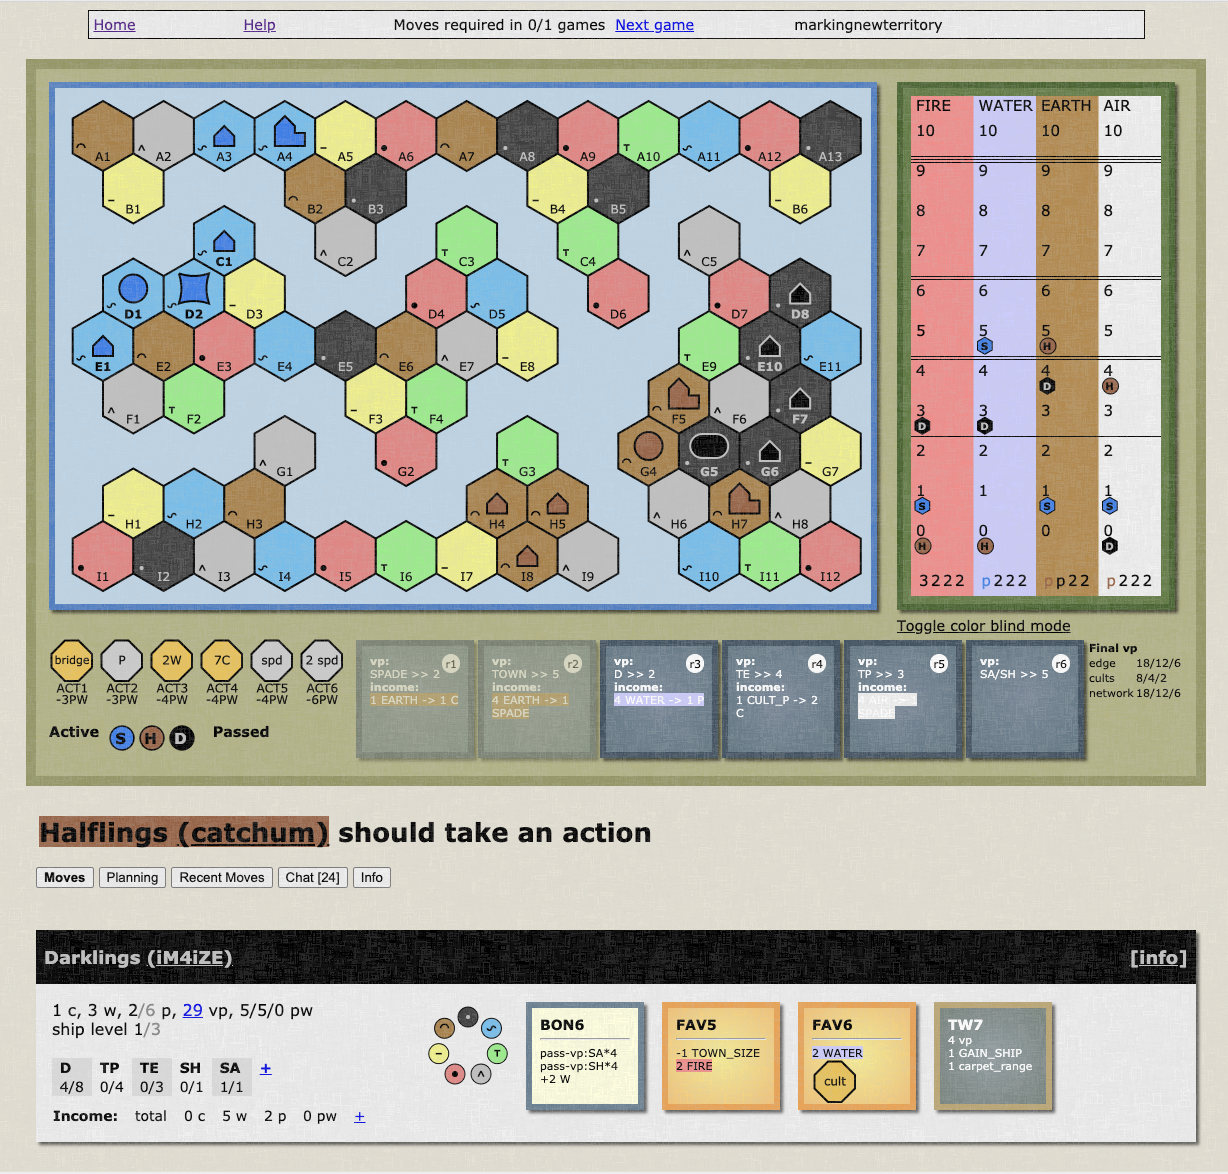
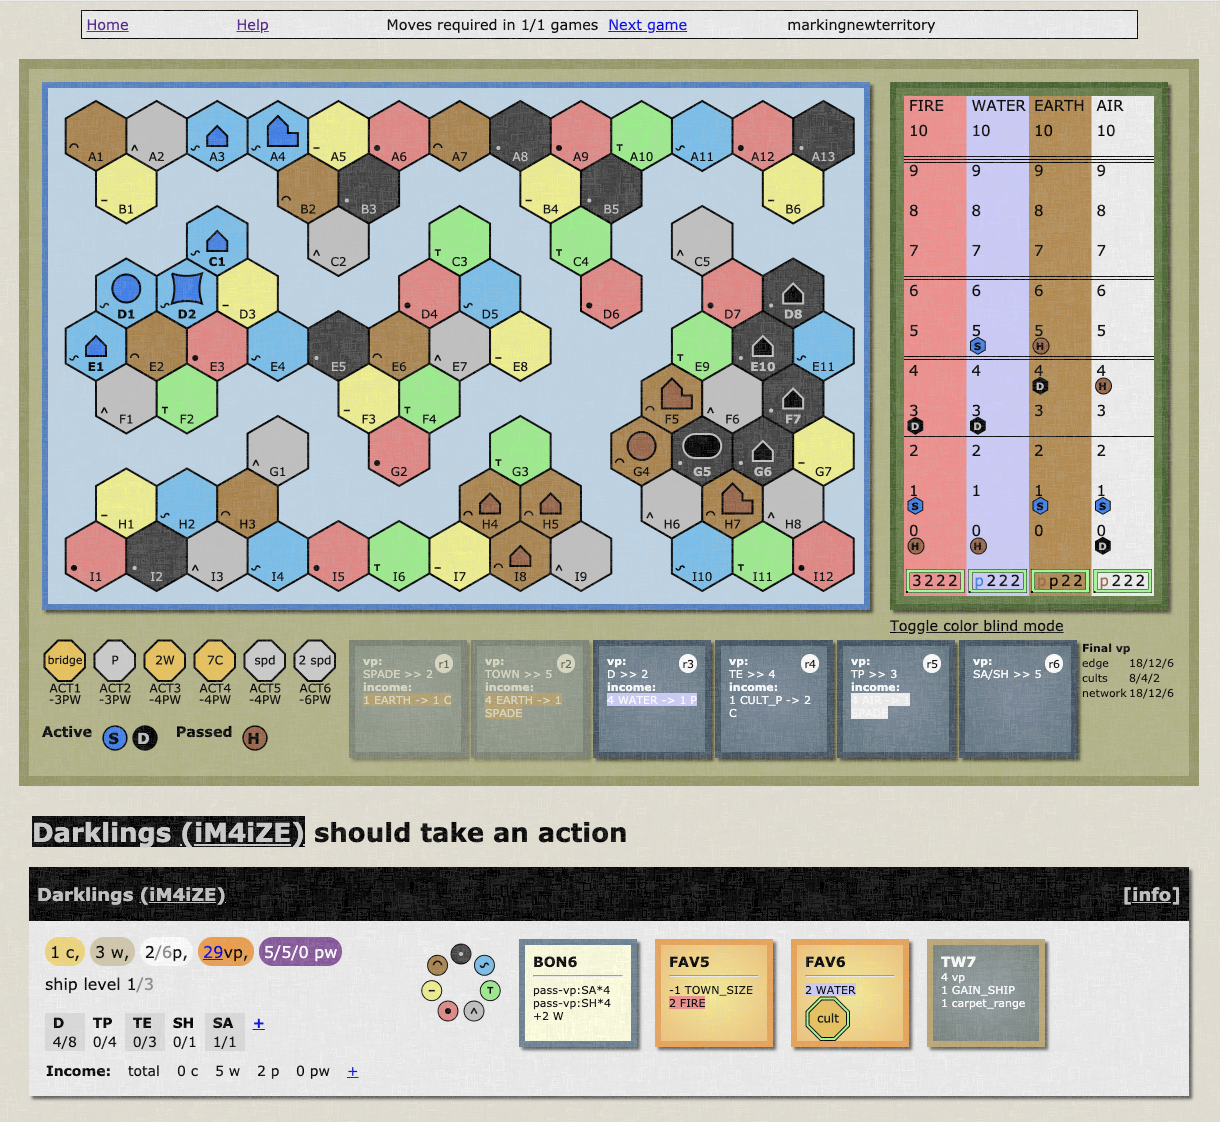
minor updates

diff --git a/terra-mystica.css b/terra-mystica.css
@@ -101,6 +101,66 @@ div.faction-info {
   font-size: 16px;
 }
 
+.faction-info > div:first-child {
+  margin-bottom: 8px;
+}
+
+.faction-info > div:first-child > span:first-child {
+  background: #F6D56B;
+  padding: 5px;
+  border-radius: 15px;
+  display: inline-block;
+  margin-right: 5px;
+}
+
+.faction-info > div:first-child > span:nth-child(2) {
+  background: #D4C8A8;
+  padding: 5px;
+  border-radius: 15px;
+  display: inline-block;
+  margin-right: 5px;
+}
+
+.faction-info > div:first-child > span:nth-child(3) {
+  background: white;
+  padding: 5px 0 5px 5px;
+  display:inline-block;
+  border-radius: 15px 0 0 15px;
+}
+.faction-info > div:first-child > span:nth-child(4) {
+  background: white;
+  padding: 5px 0 5px 0;
+  display:inline-block;
+}
+.faction-info > div:first-child > span:nth-child(5) {
+  background: white;
+  padding: 5px 5px 5px 0;
+  display:inline-block;
+  border-radius: 0 15px 15px 0;
+  margin-right: 5px;
+}
+
+.faction-info > div:first-child > a:nth-child(6) {
+  background: #F9982F;
+  padding: 5px 0 5px 5px;
+  border-radius: 15px 0 0 15px;
+  display: inline-block;
+}
+.faction-info > div:first-child > span:nth-child(7) {
+  background: #F9982F;
+  padding: 5px 5px 5px 0;
+  display: inline-block;
+  border-radius: 0 15px 15px 0;
+  margin-right: 5px;
+}
+
+.faction-info > div:first-child > span:nth-child(8) {
+  background: #8C519E;
+  color: white;
+  padding: 5px;
+  border-radius: 15px;
+}
+
 table.building-table {
   margin-top: 20px;
 }
